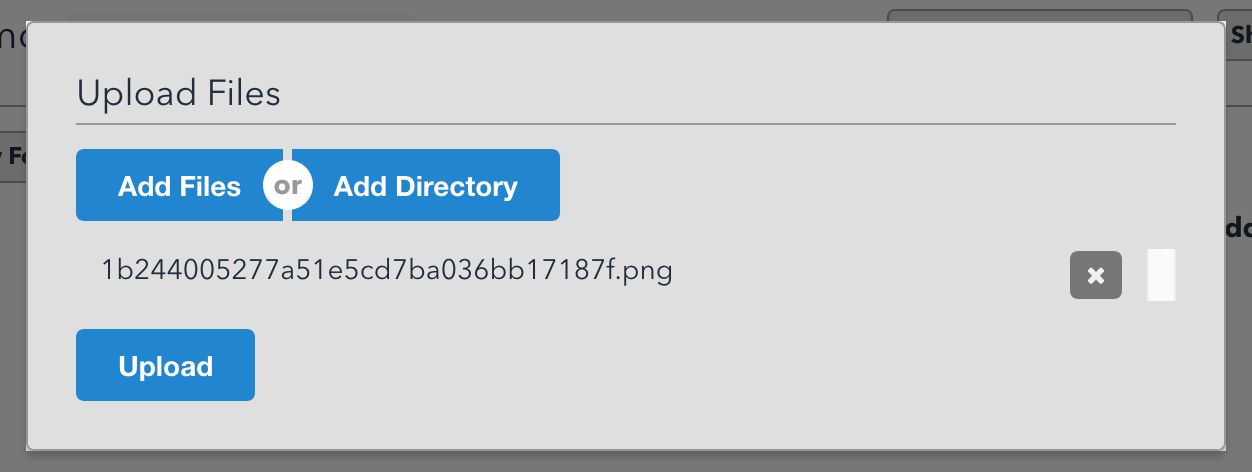
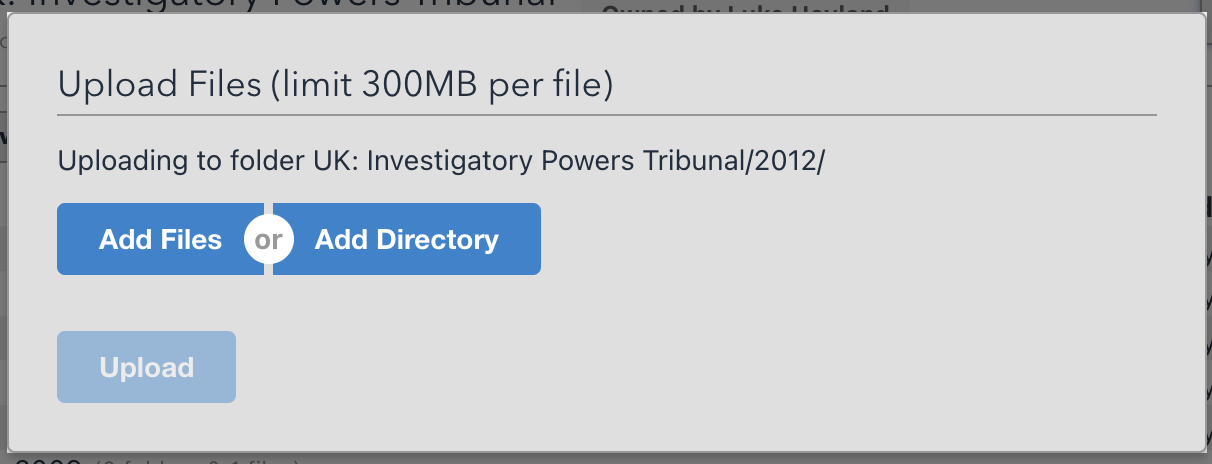
More edits and replacement pix

Changed region(s): [[0.0, 0.0, 1.0, 1.0], [0.8548, 0.5129, 0.9464, 0.6336]]

diff --git a/frontend/src/stylesheets/components/_markdown-page.scss b/frontend/src/stylesheets/components/_markdown-page.scss
@@ -9,6 +9,7 @@
   }
 
   h1 {
+    font-size: 24px;
     padding-bottom: $baseSpacing;
     border-bottom: 1px solid $borderColour;
   }

diff --git a/frontend/public/docs/UsingGiant.md b/frontend/public/docs/UsingGiant.md
@@ -89,7 +89,7 @@ _This negative search filter will exclude anything from the Dataset 'Luke Hoylan
 
 ---
 
-</div><br/>
+</div>
 
 ## **The Search field itself** {#the-search-field-itself}
 
@@ -151,7 +151,7 @@ The following is a list of characters you will need to escape if you want to sea
 | ?                            | \\?                |
 | \                            | \\\                |
 
-</div><br/>
+</div>
 
 ## **Search results** {#search-results}
 
@@ -253,7 +253,7 @@ _An image opened from a search result. The user switches to 'Preview' view mode_
 
 ---
 
-</div><br/>
+</div>
 
 ## **Audio and video files** {#audio-and-video-files}
 
@@ -338,26 +338,76 @@ Don't click on this if you want to keep your workspace private to you, or if you
 
 Workspaces are where you upload and organise your files in Giant. To begin you upload your files to a workspace and you can then browse and search through them.
 
-Navigate to a workspace. Click on nothing if you want to upload files to the top of the workspace. Or click on a folder within the workspace to upload files to that folder. Then hit the “Upload to Workspace” button.
+Navigate to a workspace. Click on nothing if you want to upload files to the top of the workspace. Or click on a folder within the workspace to upload files to that folder. Then tell Giant what files you want to upload in one of two ways:
 
-![Workspaces upload button](/docs/images/09_workspaces_upload_button.png)
+**1. Manual upload**
 
-You'll be shown a window where you can choose one of two options:  
-![Workspaces upload selection dialog](/docs/images/10_workspaces_upload_selection_dialog.png)
+Drag a selection of files, or a directory and all its contents, into the spot in the workspace that you want to upload the files to. 
+
+<img src="/docs/images/09_1_workspaces_upload_drag.gif" width="75%" />
+
+<div style="width: 25%;">
+
+_Drag a folder or some files to somewhere in your workspace_
+
+---
+
+</div><br/>
+
+You can't select a combination of files and directories at the same time because your computer may misreport the selection to the browser.  
+
+**2. The upload button**
+
+Click the upload files button at the top of the screen:
+
+
+<img src="/docs/images/09_workspaces_upload_button.png" width="75%" />
+
+<div style="width: 25%;">
+
+_Workspaces upload button_
+
+---
+
+</div><br/>
+
+If you do the latter you'll be shown a window where you can choose one of two options:  
+
+<img src="/docs/images/10_workspaces_upload_selection_dialog.png" width="60%" />
+
+<div style="width: 25%;">
+
+_The upload selection dialog, showing the location you chose to upload the files to_
+
+---
+
+</div><br/>
 
 - **Add Files** to add specific files from your computer to your chosen location in the workspace. You can select more than one file at once if your computer allows it. The files will be added side by side to your chosen location in your workspace.
 - **Add Directory** to add an entire folder from your computer to the chosen location in the workspace. Here the directory structure on your computer will be preserved: everything will end up inside a folder of the same name, and any subfolders therein will have been retained with their original contents.
 
 Your computer will now open a file finding dialog. Navigate to the files or folder you want to upload, select them, then hit OK/Open/Upload or whatever button it is that your computer shows to upload the files.
 
-You'll then be shown a list of your selection, so you can confirm it's what you wanted.
+## **Confirming the upload selection** {#confirming-the-upload-selection}
+
+Whether you dragged files into the workspace manually or went via the Upload button, before the files actually upload you'll be shown a list of what you've chosen, for you to review:
+
+<img src="/docs/images/10_1_workspaces_upload_review_dialog.png" width="60%" />
+
+<div style="width: 25%;">
+
+_The upload selection review dialog for 'Add Directory'. You can twist down subfolders to see what's inside them. Hit X to remove anything from the list to be uploaded_
+
+---
+
+</div><br/>
 
 - If you selected too many things you can click on the X icon to remove them from the stuff you're going to upload.
 - If you've gone completely wrong just click off the list to cancel and start again.
 
-Once you're happy, hit Upload. Giant will start uploading the files. If there are a lot please don't close the window. Let it progress.
+Once you're happy, hit **Upload**. Giant will start uploading the files. If there are a lot **please don't close the window**. The upload is being performed by your browser. Don't interrupt it. You can of course move to a new tab while it plods away.
 
-Once uploaded, the files will appear in the workspace. The spinning icon indicates that Giant is **processing** the files. For some tasks, such as OCR, the time this takes will depend on how big the file is (for example how many pages it has). This process is now being performed by Giant rather than your computer. So you can safely navigate away from the page though and come back once they are done.
+Once uploaded, the files will appear in the workspace. The spinning icon indicates that Giant is **processing** the files. For some tasks, such as transcription, translation, and OCR, the time this takes will depend on how big the file is (for example how many pages it has). Files that a "processing" are already uploaded, So at this stage you can safely navigate away from the page.
 
 ![Workspaces file listing processed](/docs/images/11_workspaces_file_listing_processed.png)
 
@@ -365,22 +415,46 @@ Once a file says it has "processed", you can [view](#viewing-documents) it or [s
 
 Under the hood, the file is actually stored in your own personal dataset, which includes every file you upload. The workspace is really little more than a nicely organisable set of bookmarks. But since they behave just like files, you can treat them just like files.
 
-## **Saving online content into Giant**
+## **Saving web content into Giant** {#saving-web-content-into-giant}
 
 You can give Giant the URL of a webpage and it will snapshot the page, extract the text, and ingest, transcribe and translate any multimedia content therein (such as videos). There are two ways to do this:
 
-### **From Giant: ‘Capture from URL’**
+## **Tell Giant to fetch content from a URL** {#tell-giant-to-fetch-content-from-a-URL}
 
-![Workspaces capture from url button](/docs/images/12_workspaces_capture_from_url_button.png)  
-Within a workspace click on Capture to Giant, enter the URL of the page you want captured and where you want to save it.  
-![Workspaces capture from url selection dialog](/docs/images/13_workspaces_capture_from_url_selection_dialog.png)  
-Giant will go and fetch it. It may take a while if the page contains audio or video content.
+Within a workspace click on the Capture from URL button:
 
-### **From a webpage: right click and ‘Capture with Giant’**
+<img src="/docs/images/12_workspaces_capture_from_url_button.png" width="100%" />
 
-This will only work if your browser has the Guardian Staff Extension.
+<div style="width: 25%;">
+
+_Capture from URL button_
+
+---
+
+</div><br/>
+
+Enter the URL of the page you want captured and where in the workspace you want to save it.  
+
+<img src="/docs/images/13_workspaces_capture_from_url_selection_dialog.png" width="50%" />
+
+<div style="width: 25%;">
+
+_Capture from URL button_
+
+---
+
+</div><br/>
+
+Giant will go and fetch it. If the page contains audio or video content this process can take more than 15 minutes because our transcripotion service will attempt to transcribe and translate any spoken content. You do not need to wait on the page while files are being processed. 
+
+## **Send a webpage to Giant** {#send-a-webpage-to-giant}
+
+While browsing the internet you may wish to save the content of something you view on a webpage or social media post. You can send the material directly to Giant from there. Video and audio will be transcribed and translated, and the whole thing will be searchable for later retrieval. 
+
+This feature only works if your browser has the [Guardian Staff Extension](https://sites.google.com/a/guardian.co.uk/esd/web-tools/composer-workflow/teleporter/), aka Teleporter.
 
 From a webpage right click and opt to **Capture with Giant**. You’ll be given the same options as above, after which you can go about your browsing business while Giant grabs the material and stores it for you.  
+
 ![Workspaces capture from url workflow](/docs/images/14_workspaces_capture_from_url_workflow.gif)
 
 ## **Adding existing Giant files to a workspace** {#adding-existing-giant-files-to-a-workspace}
